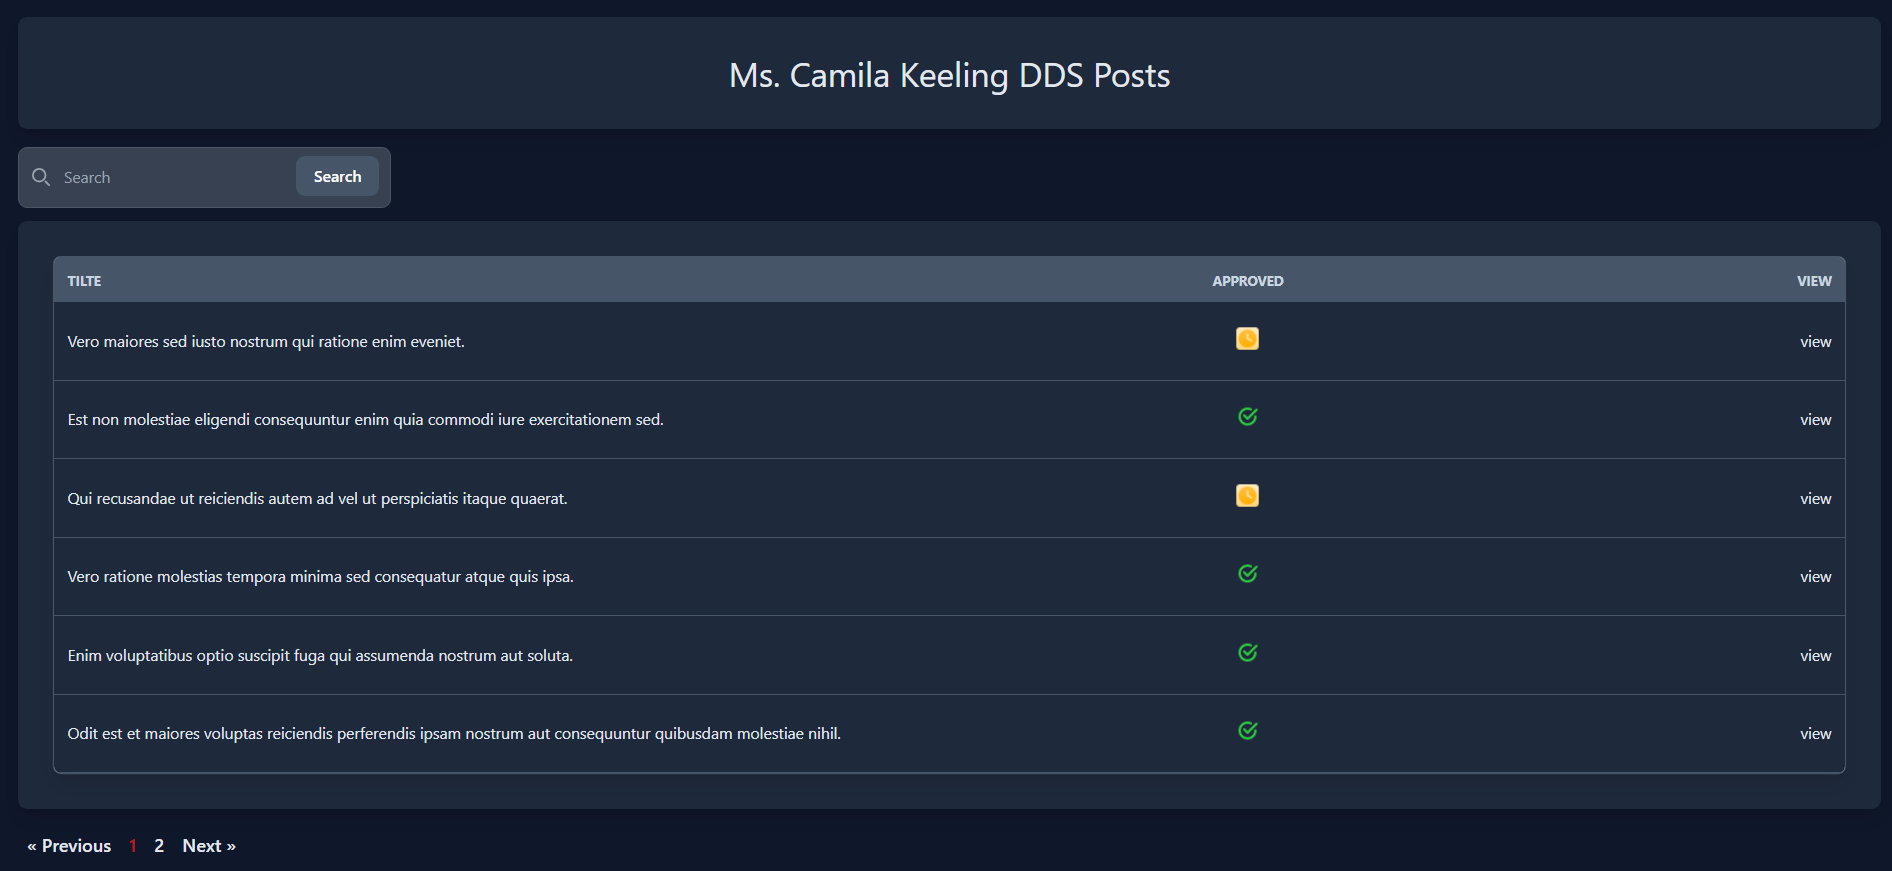
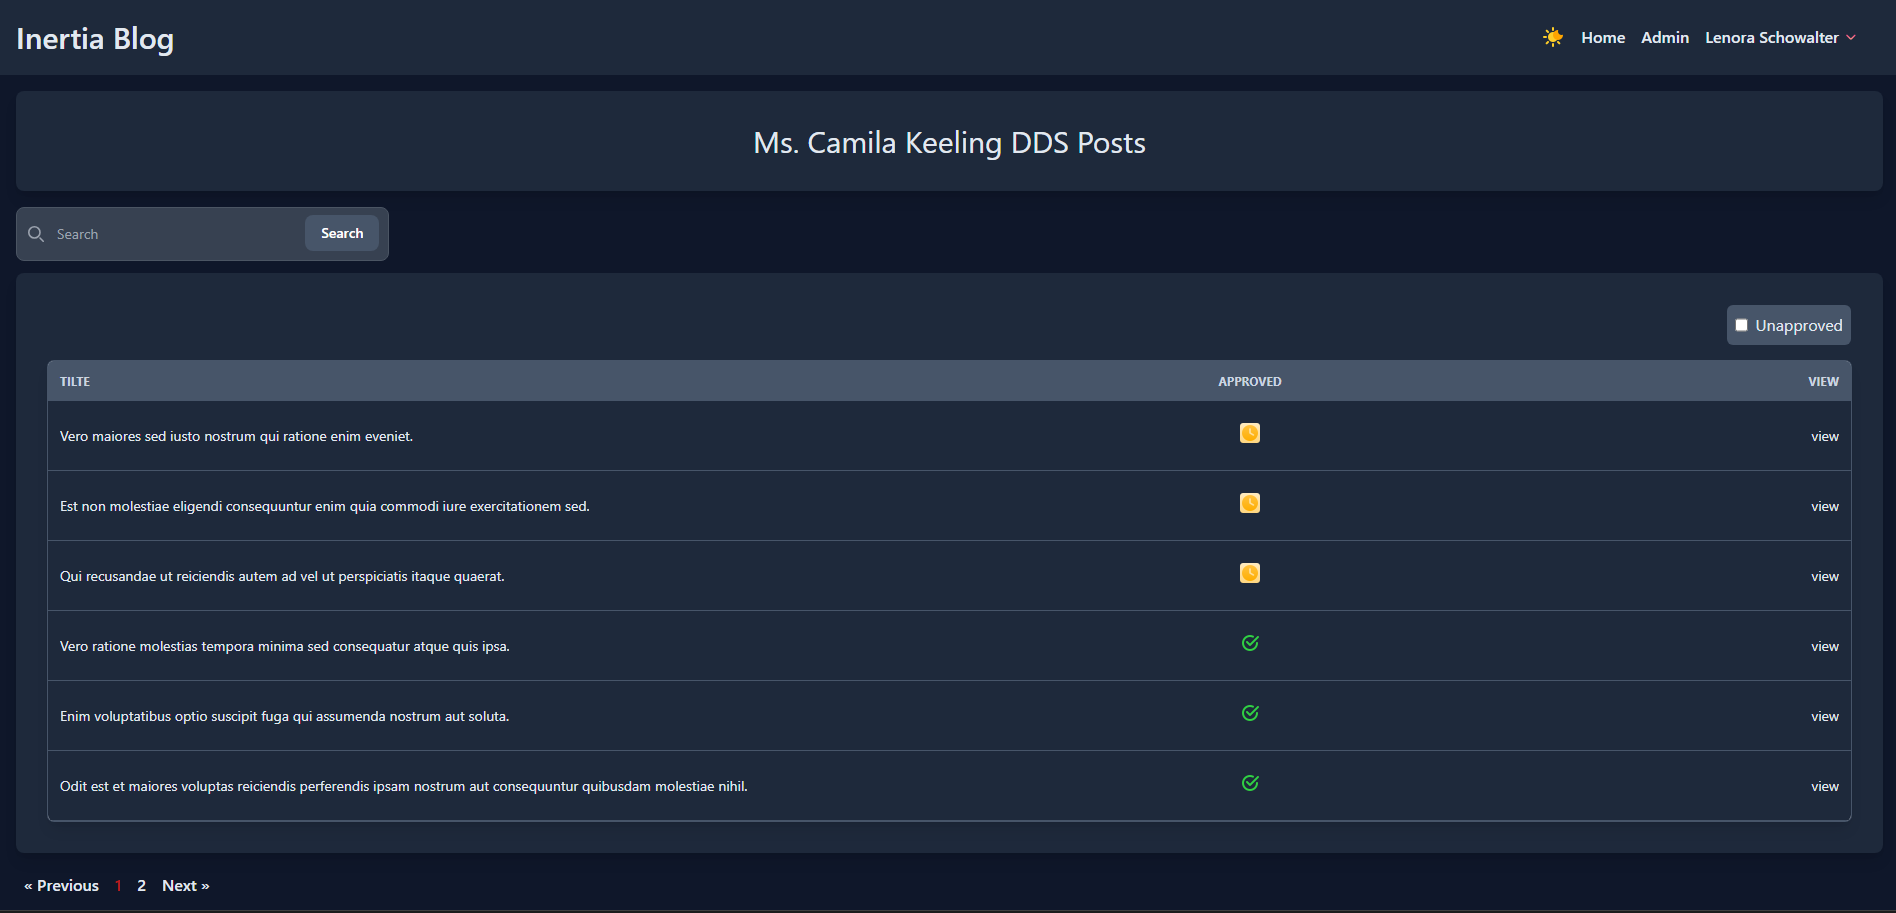
update v6

diff --git a/resources/js/pages/admin/Userposts.jsx b/resources/js/pages/admin/Userposts.jsx
@@ -1,26 +1,45 @@
-import { Link, useForm } from '@inertiajs/react';
-import React from 'react'
+import { Link, router, useForm } from '@inertiajs/react';
+import React, { useState } from 'react'
 import { route } from 'ziggy-js';
 import Paginatelinks from '../../components/Paginatelinks';
 
 
-export default function Userposts({user,posts,requestsearch}) {
-
-  const{data,setData,put,get}=useForm({
-    search:requestsearch || '',
-  
+export default function Userposts({user,posts,filters}) {
+  const [isChecked, setIsChecked] = useState(filters.unapproved || false);
+  const{data,setData,put}=useForm({
+    search:filters.search || '',
+    unapproved:filters.unapproved || false
   });
   const handleclick=(postid)=>{
     put(route('approve.update',postid));
   }
 
-  const Search = (eo)=>{
+  const Search = (eo) => {
     eo.preventDefault();
-    get(route('show.posts',user.id),{
-    search:data.search,
+    const params = {
+      search: data.search,
+      unapproved: isChecked ? true : null
+    };
+    router.get(route('show.posts', user.id),params,{
+      preserveState: true,
+      replace: true,
+    });
+  };
+  const handleCheckboxChange = () => {
+    const checkedState = !isChecked;
+    setIsChecked(checkedState);
 
-    })
-  }
+    const params = {
+      search: data.search,
+      unapproved: checkedState ? true : null
+    };
+
+    router.get(route('show.posts', user.id),params, {
+  
+      preserveState: true,
+      replace: true,
+    });
+  };
 
   return (
     <>
@@ -28,6 +47,7 @@ export default function Userposts({user,posts,requestsearch}) {
     <p className='text-3xl text-black dark:text-slate-200 capitalize'>{user.name} posts</p>
     </div>
     <div className='mb-3'>
+  {/* search box */}
     <form className=' w-1/5 ' onSubmit={Search}>   
     <label htmlFor="search" className="mb-2 text-sm font-medium text-gray-900 sr-only dark:text-white">Search</label>
     <div className="relative">
@@ -42,7 +62,11 @@ export default function Userposts({user,posts,requestsearch}) {
 </form>
 </div>
       <div className='bg-white mx-auto p-8 flex flex-col items-end gap-2 rounded-lg shadow-lg dark:bg-slate-800 mb-4'>
-    
+  {/* checkbox */}
+    <div className='flex gap-2 w-fit bg-slate-600 p-2 rounded-md mb-2'>
+        <input id='unapproved' type="checkbox" checked={isChecked} onChange={handleCheckboxChange}/>
+          <label htmlFor="unapproved">Unapproved</label>
+    </div>
       <table className='w-full mx-auto table-fixed border-collapse overflow-hidden rounded-md text-sm ring-1 ring-slate-300 dark:ring-slate-600 bg-white shadow-lg'>
        <thead className='bg-slate-600 text-slate-300 uppercase text-xs text-left'>
        <tr className="bg-slate-600 text-slate-300 uppercase text-xs text-left">
@@ -76,9 +100,10 @@ export default function Userposts({user,posts,requestsearch}) {
            </tbody>
            </table>
            </div>
+        {/* pagination */}
            <div className='flex justify-start mt-4 '>
-      <Paginatelinks posts={posts}/>
-      </div>
+           <Paginatelinks posts={posts}/>
+          </div>
            </>
   )
 }

diff --git a/resources/js/pages/Home.jsx b/resources/js/pages/Home.jsx
@@ -1,25 +1,28 @@
-import {  Link, useForm, usePage } from '@inertiajs/react'
+import {  router, useForm, usePage } from '@inertiajs/react'
 import Blogcard from '../components/Blogcard';
 import { route } from 'ziggy-js';
 import Paginatelinks from '../components/Paginatelinks';
 
-export default function Home({posts,requestsearch}) {
-  const tag = new URLSearchParams(window.location.search).get('tag'); 
-  
+export default function Home({posts,filters}) {
+
   const {auth} = usePage().props;
   
-  const{data,setData,get} = useForm({
+  const{data,setData} = useForm({
 
-    search: requestsearch 
+    search: filters.seacrh || "" 
   
   })
 
 const Search =(eo)=>{
 eo.preventDefault();
-get(route('home'),{
-  search:data.search,
-  tag: tag
-})
+const params = {
+  search: data.search,
+  tag: filters.tag ?? null
+};
+router.get(route('home'),params,{
+    preserveState: true, 
+     
+  });
 }
   
 
@@ -36,7 +39,7 @@ get(route('home'),{
                 <path stroke="currentColor" strokeLinecap="round" strokeLinejoin="round" strokeWidth="2" d="m19 19-4-4m0-7A7 7 0 1 1 1 8a7 7 0 0 1 14 0Z"/>
             </svg>
         </div>
-        <input type="search" id="search"  onChange={(eo)=>{setData('search',eo.target.value)}} className="block w-full p-4 ps-10 text-sm text-gray-900 border border-gray-300 rounded-lg bg-gray-50 focus:ring-blue-500 focus:border-blue-500 dark:bg-gray-700 dark:border-gray-600 dark:placeholder-gray-400 dark:text-white dark:focus:ring-blue-500 dark:focus:border-blue-500" placeholder="Search " required />
+        <input type="search" id="search" value={data.search}  onChange={(eo)=>{setData('search',eo.target.value)}} className="block w-full p-4 ps-10 text-sm text-gray-900 border border-gray-300 rounded-lg bg-gray-50 focus:ring-blue-500 focus:border-blue-500 dark:bg-gray-700 dark:border-gray-600 dark:placeholder-gray-400 dark:text-white dark:focus:ring-blue-500 dark:focus:border-blue-500" placeholder="Search " required />
         <button type="submit" className="text-white absolute end-2.5 bottom-2.5 bg-slate-600 hover:bg-slate-800 focus:ring-4 focus:outline-none focus:ring-blue-300 font-medium rounded-lg text-sm px-4 py-2  dark:focus:ring-blue-800">Search</button>
     </div>
 </form>

diff --git a/resources/js/pages/admin/Adminpage.jsx b/resources/js/pages/admin/Adminpage.jsx
@@ -1,10 +1,26 @@
-import React from 'react'
-import { Link} from '@inertiajs/react'
+import React, { useState } from 'react'
+import { Link, router} from '@inertiajs/react'
 import Selectrole from '../../components/Selectrole'
 import Searchinput from '../../components/Searchinput'
+import { route } from 'ziggy-js';
 
-export default function Adminpage({users,status,requestsearch}) {
+export default function Adminpage({users,status,filters}) {
+  const [isChecked, setIsChecked] = useState(filters.suspended || false);
+  const handleCheckbox = () => {
+    const checkedState = !isChecked;
+    setIsChecked(checkedState);
 
+    const params = {
+      search: filters.search ?? "",
+      suspended: checkedState ? true : null
+    };
+
+    router.get(route('admin.page'),params, {
+  
+      preserveState: true,
+      replace: true,
+    });
+  };
   return (
     <>
     <div className='bg-white flex items-center justify-center mx-auto p-8 rounded-lg shadow-lg dark:bg-slate-800 mb-4'>
@@ -12,10 +28,14 @@ export default function Adminpage({users,status,requestsearch}) {
       </div>
       {/* search */}
 <div className='mb-3'>
-  <Searchinput search={requestsearch}/>
+  <Searchinput search={filters.search ?? ""} suspend={filters.suspended ?? null}/>
 </div>
       {status && <p className='text-sm bg-green-500'>{status}</p>}
-      <div className='bg-white flex items-center justify-between mx-auto p-8 rounded-lg shadow-lg dark:bg-slate-800 mb-4'>
+      <div className='bg-white  mx-auto p-8 rounded-lg shadow-lg dark:bg-slate-800 mb-4'>
+      <div className='flex gap-2 w-fit bg-slate-600 p-2 rounded-md mb-2'>
+        <input id='suspended' type="checkbox" checked={isChecked} onChange={handleCheckbox}/>
+          <label htmlFor="suspended">suspended</label>
+    </div>
        <table className='w-full mx-auto table-fixed border-collapse overflow-hidden rounded-md text-sm ring-1 ring-slate-300 dark:ring-slate-600 bg-white shadow-lg'>
         <thead className='bg-slate-600 text-slate-300 uppercase text-xs text-left'>
         <tr className="bg-slate-600 text-slate-300 uppercase text-xs text-left">

diff --git a/resources/js/components/Selectrole.jsx b/resources/js/components/Selectrole.jsx
@@ -1,30 +1,26 @@
-import React from 'react';
-import { useForm } from '@inertiajs/react';
+import { useState } from 'react';
+import { router } from '@inertiajs/react';
+import { route } from 'ziggy-js';
 
-export default function Selectrole({ user }) {
-  const { setData, put } = useForm({
-    role: user.role, 
-  });
+export default function SelectRole({ user }) {
+  const [selectedRole, setSelectedRole] = useState(user.role);
 
-  const handleChange = (eo) => {
-    const newRole = eo.target.value;
-    setData('role', newRole); 
+  const handleChange = (e) => {
+    const newRole = e.target.value;
+    setSelectedRole(newRole); 
 
   
-    put(route('user.updaterole',user.id), {
-      data: { role: newRole },
-      preserveScroll: true,
-    
-    
+    router.put(route('user.updaterole', user.id), {
+      role: newRole,  
+      preserveState: true,  
     });
   };
 
   return (
     <select
       className="bg-gray-100 rounded p-2 dark:bg-slate-700 dark:text-slate-200"
-      value={user.role} 
-      onChange={handleChange}
-    
+      value={selectedRole} 
+      onChange={handleChange} 
     >
       <option value="admin">Admin</option>
       <option value="subscriber">Subscriber</option>

diff --git a/resources/js/components/Searchinput.jsx b/resources/js/components/Searchinput.jsx
@@ -1,20 +1,21 @@
-import { useForm } from '@inertiajs/react';
+import { router, useForm } from '@inertiajs/react';
 import React from 'react'
 import { route } from 'ziggy-js';
 
-export default function Searchinput({search}) {
-  const{data,setData,get} = useForm({
+export default function Searchinput({search,suspend}) {
+  const{data,setData} = useForm({
 
-    search: search || ""
-  
-  })
-  const Search =(eo)=>{
+    search: search || "",
+    suspend: suspend?? false
+  });
+  const Search = (eo) => {
     eo.preventDefault();
-    get(route('admin.page'),{
-    search:data.search
-    
-    })
-    }
+
+    router.get(route('admin.page'),{
+      search: data.search,
+      suspend: suspend?? false
+    });
+  };
   return (
     <form className='w-1/4 ' onSubmit={Search}>   
     <label htmlFor="search" className="mb-2 text-sm font-medium text-gray-900 sr-only dark:text-white">Search</label>

diff --git a/resources/js/components/Blogcard.jsx b/resources/js/components/Blogcard.jsx
@@ -1,14 +1,13 @@
-import { Link, useForm } from "@inertiajs/react";
+import { Link, router, useForm } from "@inertiajs/react";
 import moment from "moment";
 import React from "react";
 import { route } from "ziggy-js";
 
 export default function Blogcard({post,request}) {
   
-  const {get}=useForm();
   const selectTag = (tag) => {
 
-      get(route("home",{ 
+      router.get(route("home",{ 
         search: request,
          tag: tag 
         }));

diff --git a/app/Http/Controllers/AdminController.php b/app/Http/Controllers/AdminController.php
@@ -16,14 +16,14 @@ class AdminController extends Controller
 
       if(Gate::allows('makeAdminActions')){
         $user = User::with('posts')
-        ->search(request(['search']))
+        ->search($request->only(['search','suspended']))
         ->paginate(5)
         ->withQueryString();
 
         return Inertia::render('admin/Adminpage',
         ['users'=>$user,
         'status'=>session('status'),
-        'requestsearch'=>$request->search
+        'filters'=>$request->only(['search','suspended'])
       ]);
       }else{
         abort(403);
@@ -33,21 +33,21 @@ class AdminController extends Controller
 
     public function updaterole(Request $request,User $user)
 {
+
     $request->validate([
-        'role' => 'required|in:admin,subscriber,suspended',
+        'role' => 'required|string|in:admin,subscriber,suspended',
     ]);
 
-    $user->role = $request->input('role');
-    $user->save();
+    $user->update(['role'=>$request->role]);
 
-    return redirect()->back()->with('status', 'User role updated successfully.');
+    return redirect()->back()->with('status', "User role {$request->role} updated successfully.");
 }
 
 public function show(User $user,Request $request)
 {
-  
+
   $posts = $user->posts()
-  ->filter(request(['search']))
+  ->filter($request->only(['search','unapproved']))
   ->latest()
   ->paginate(6)
   ->withQueryString();
@@ -55,7 +55,7 @@ public function show(User $user,Request $request)
   return Inertia::render('admin/Userposts',
   ['user'=>$user,
   'posts'=>$posts,
-  'requestsearch'=>$request->search
+  'filters'=>$request->only(['search','unapproved'])
 ]);
 }
     public function approve(Post $post)

diff --git a/app/Http/Controllers/PostController.php b/app/Http/Controllers/PostController.php
@@ -30,7 +30,7 @@ $post = Post::whereHas('user',function(Builder $q){
 })
 ->with('user')
 ->where('approved',true)
-->search(request(['search','tag']))
+->search($request->only(['search','tag']))
 ->orderBy('created_at','DESC')
 ->paginate(6)
 ->withQueryString();
@@ -38,7 +38,7 @@ $post = Post::whereHas('user',function(Builder $q){
     return Inertia::render(
       'Home',
       ['posts' => $post,
-      'requestsearch'=>$request->search
+      'filters'=>$request->only(['search','tag'])
       ]
     );
   }

diff --git a/app/Models/Post.php b/app/Models/Post.php
@@ -4,6 +4,7 @@ namespace App\Models;
 
 use Illuminate\Database\Eloquent\Factories\HasFactory;
 use Illuminate\Database\Eloquent\Model;
+use Illuminate\Support\Facades\Log;
 
 class Post extends Model
 {
@@ -40,6 +41,8 @@ class Post extends Model
             $query->where('title', 'like', '%' . request('search') . '%');
                 
         }
-      
+    if($filter['unapproved'] ?? false){
+      $query->where('approved',false);
+    }
     }
 }

diff --git a/routes/web.php b/routes/web.php
@@ -30,7 +30,7 @@ Route::middleware(['auth','verified','can:makeAdminActions'])
 ->group(function(){
   Route::get('/admin','index')->name('admin.page');
   Route::get('/show/{user}','show')->name('show.posts');
-  Route::put('/admin/{user}/update-role','updaterole')->name('user.updaterole');
+  Route::put('/admin/{user}/role','updaterole')->name('user.updaterole');
   Route::put('/approve/post{post}','approve')->name('approve.update');
 });
 

diff --git a/app/Models/User.php b/app/Models/User.php
@@ -59,8 +59,8 @@ public function posts()
             $query->where('name', 'like', '%' . request('search') . '%')
                   ->orWhere('email', 'like', '%' . request('search') . '%');
         }
-        if ($search['user_role'] ?? false) {
-          $query->where('role', request('user_role'));
+        if ($search['suspended'] ?? false) {
+          $query->where('role', 'suspended');
       }
     }
 }
